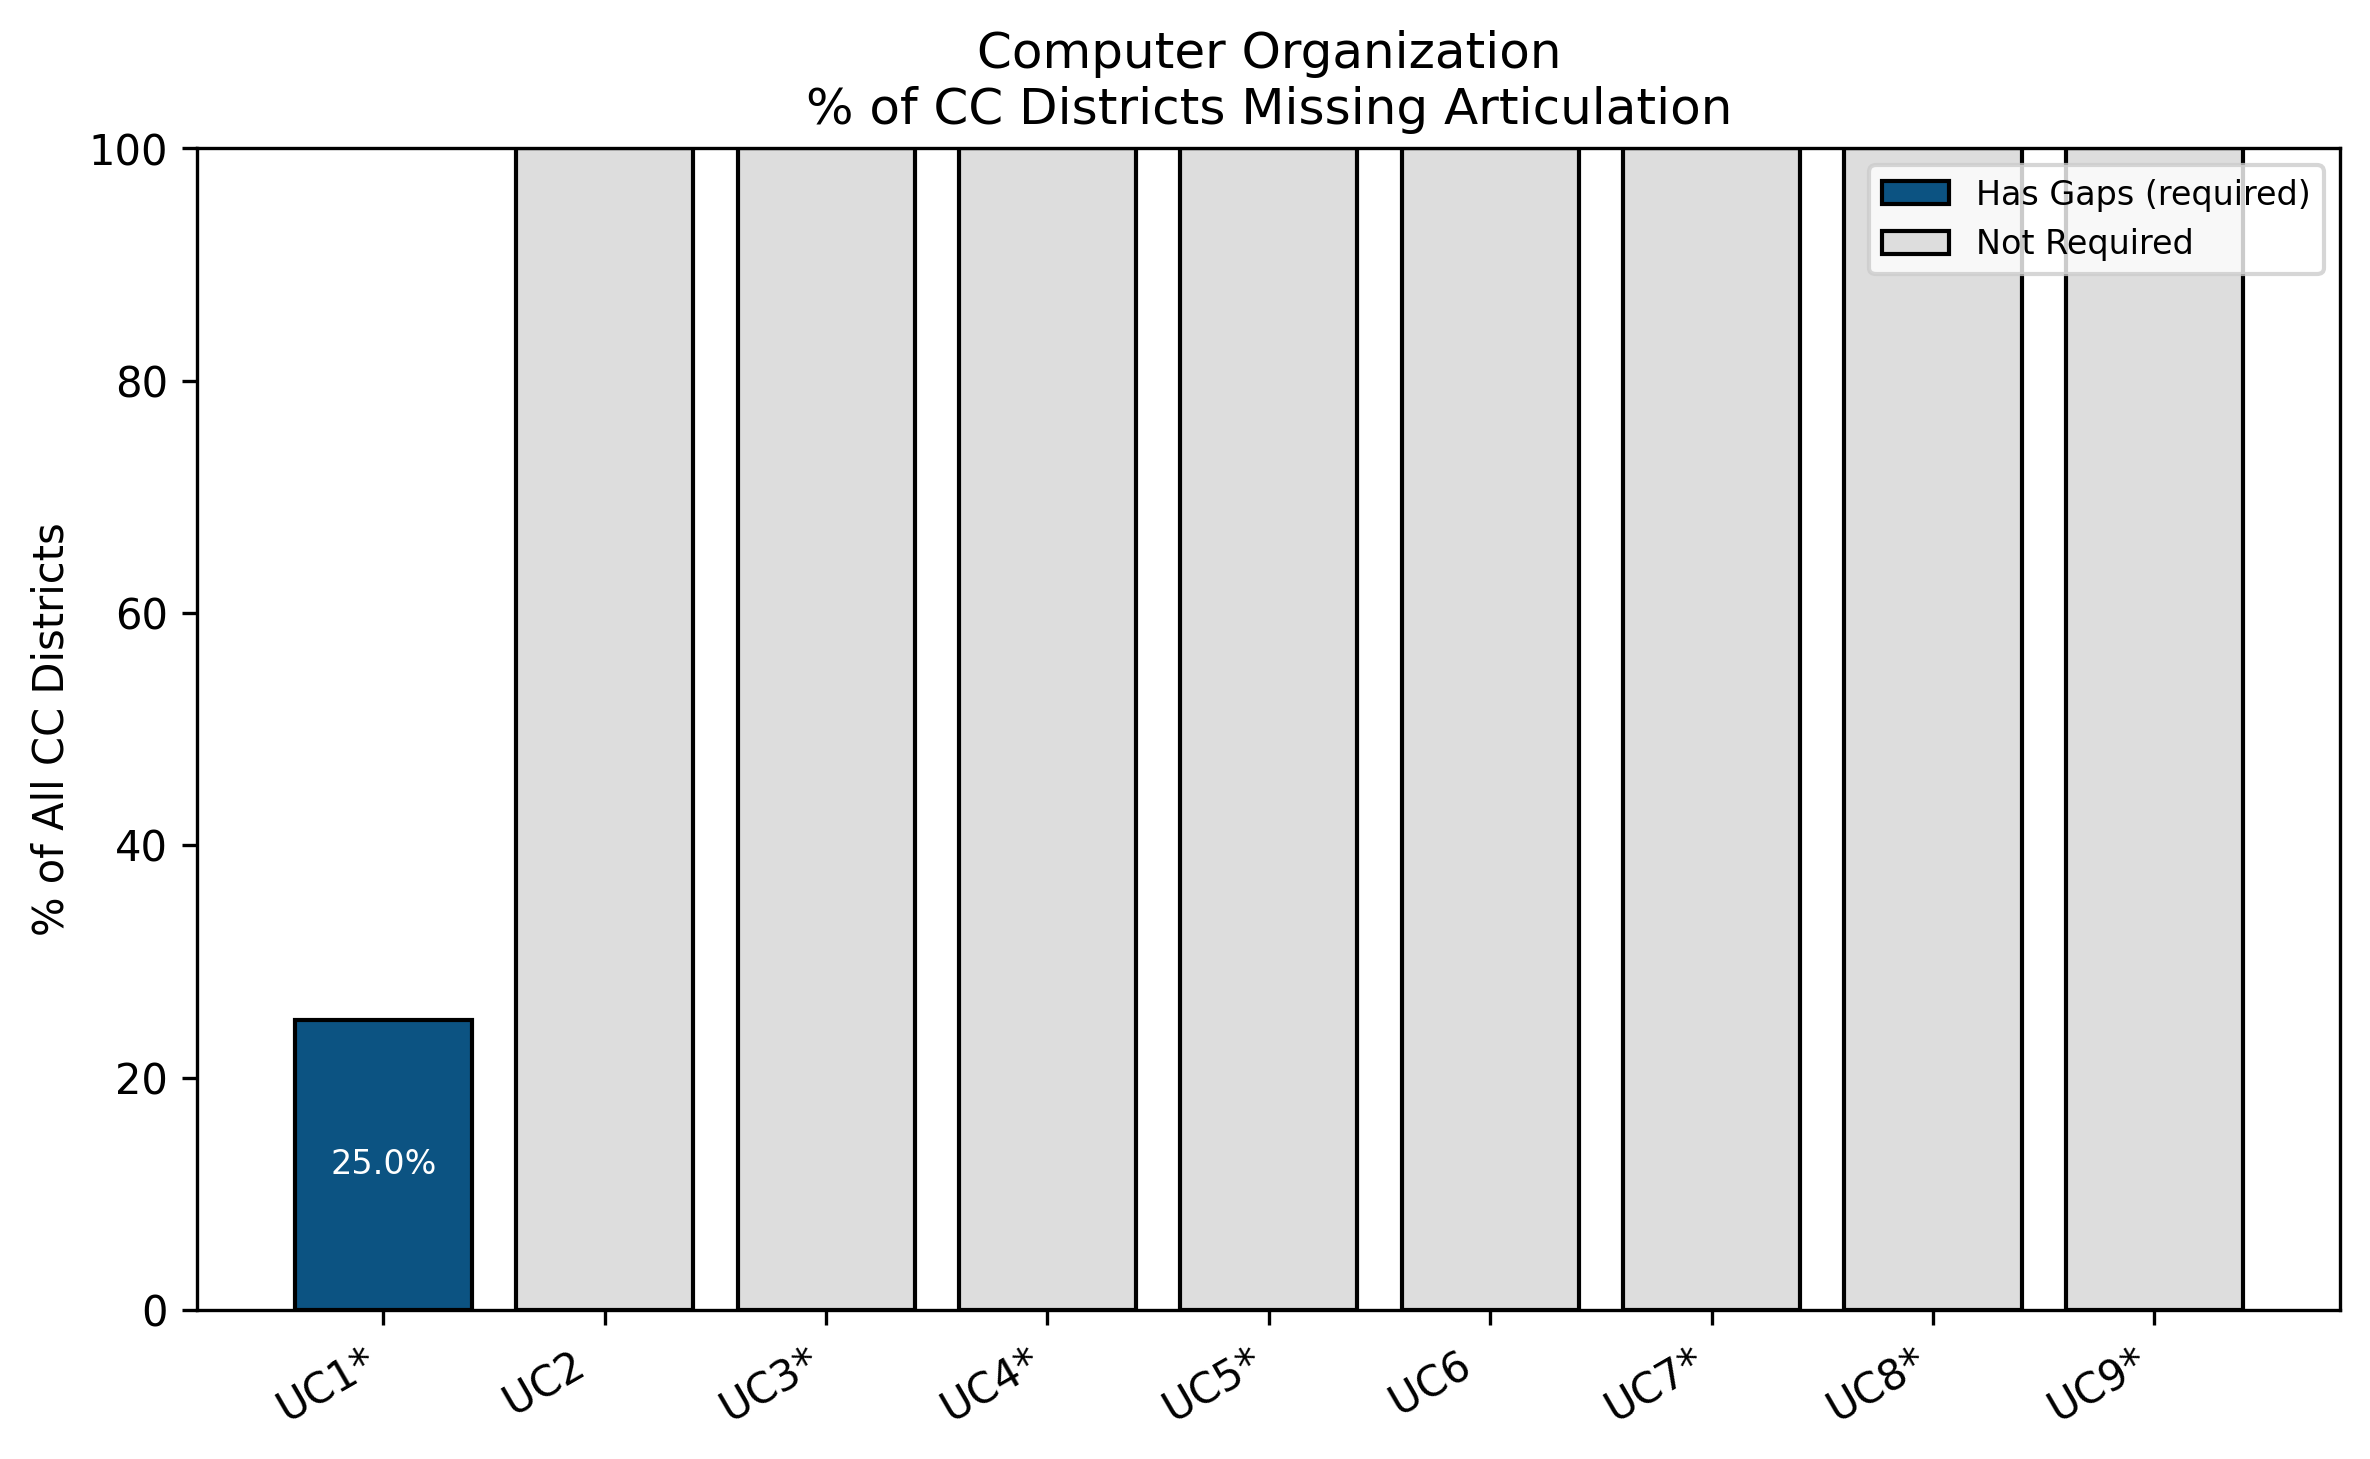
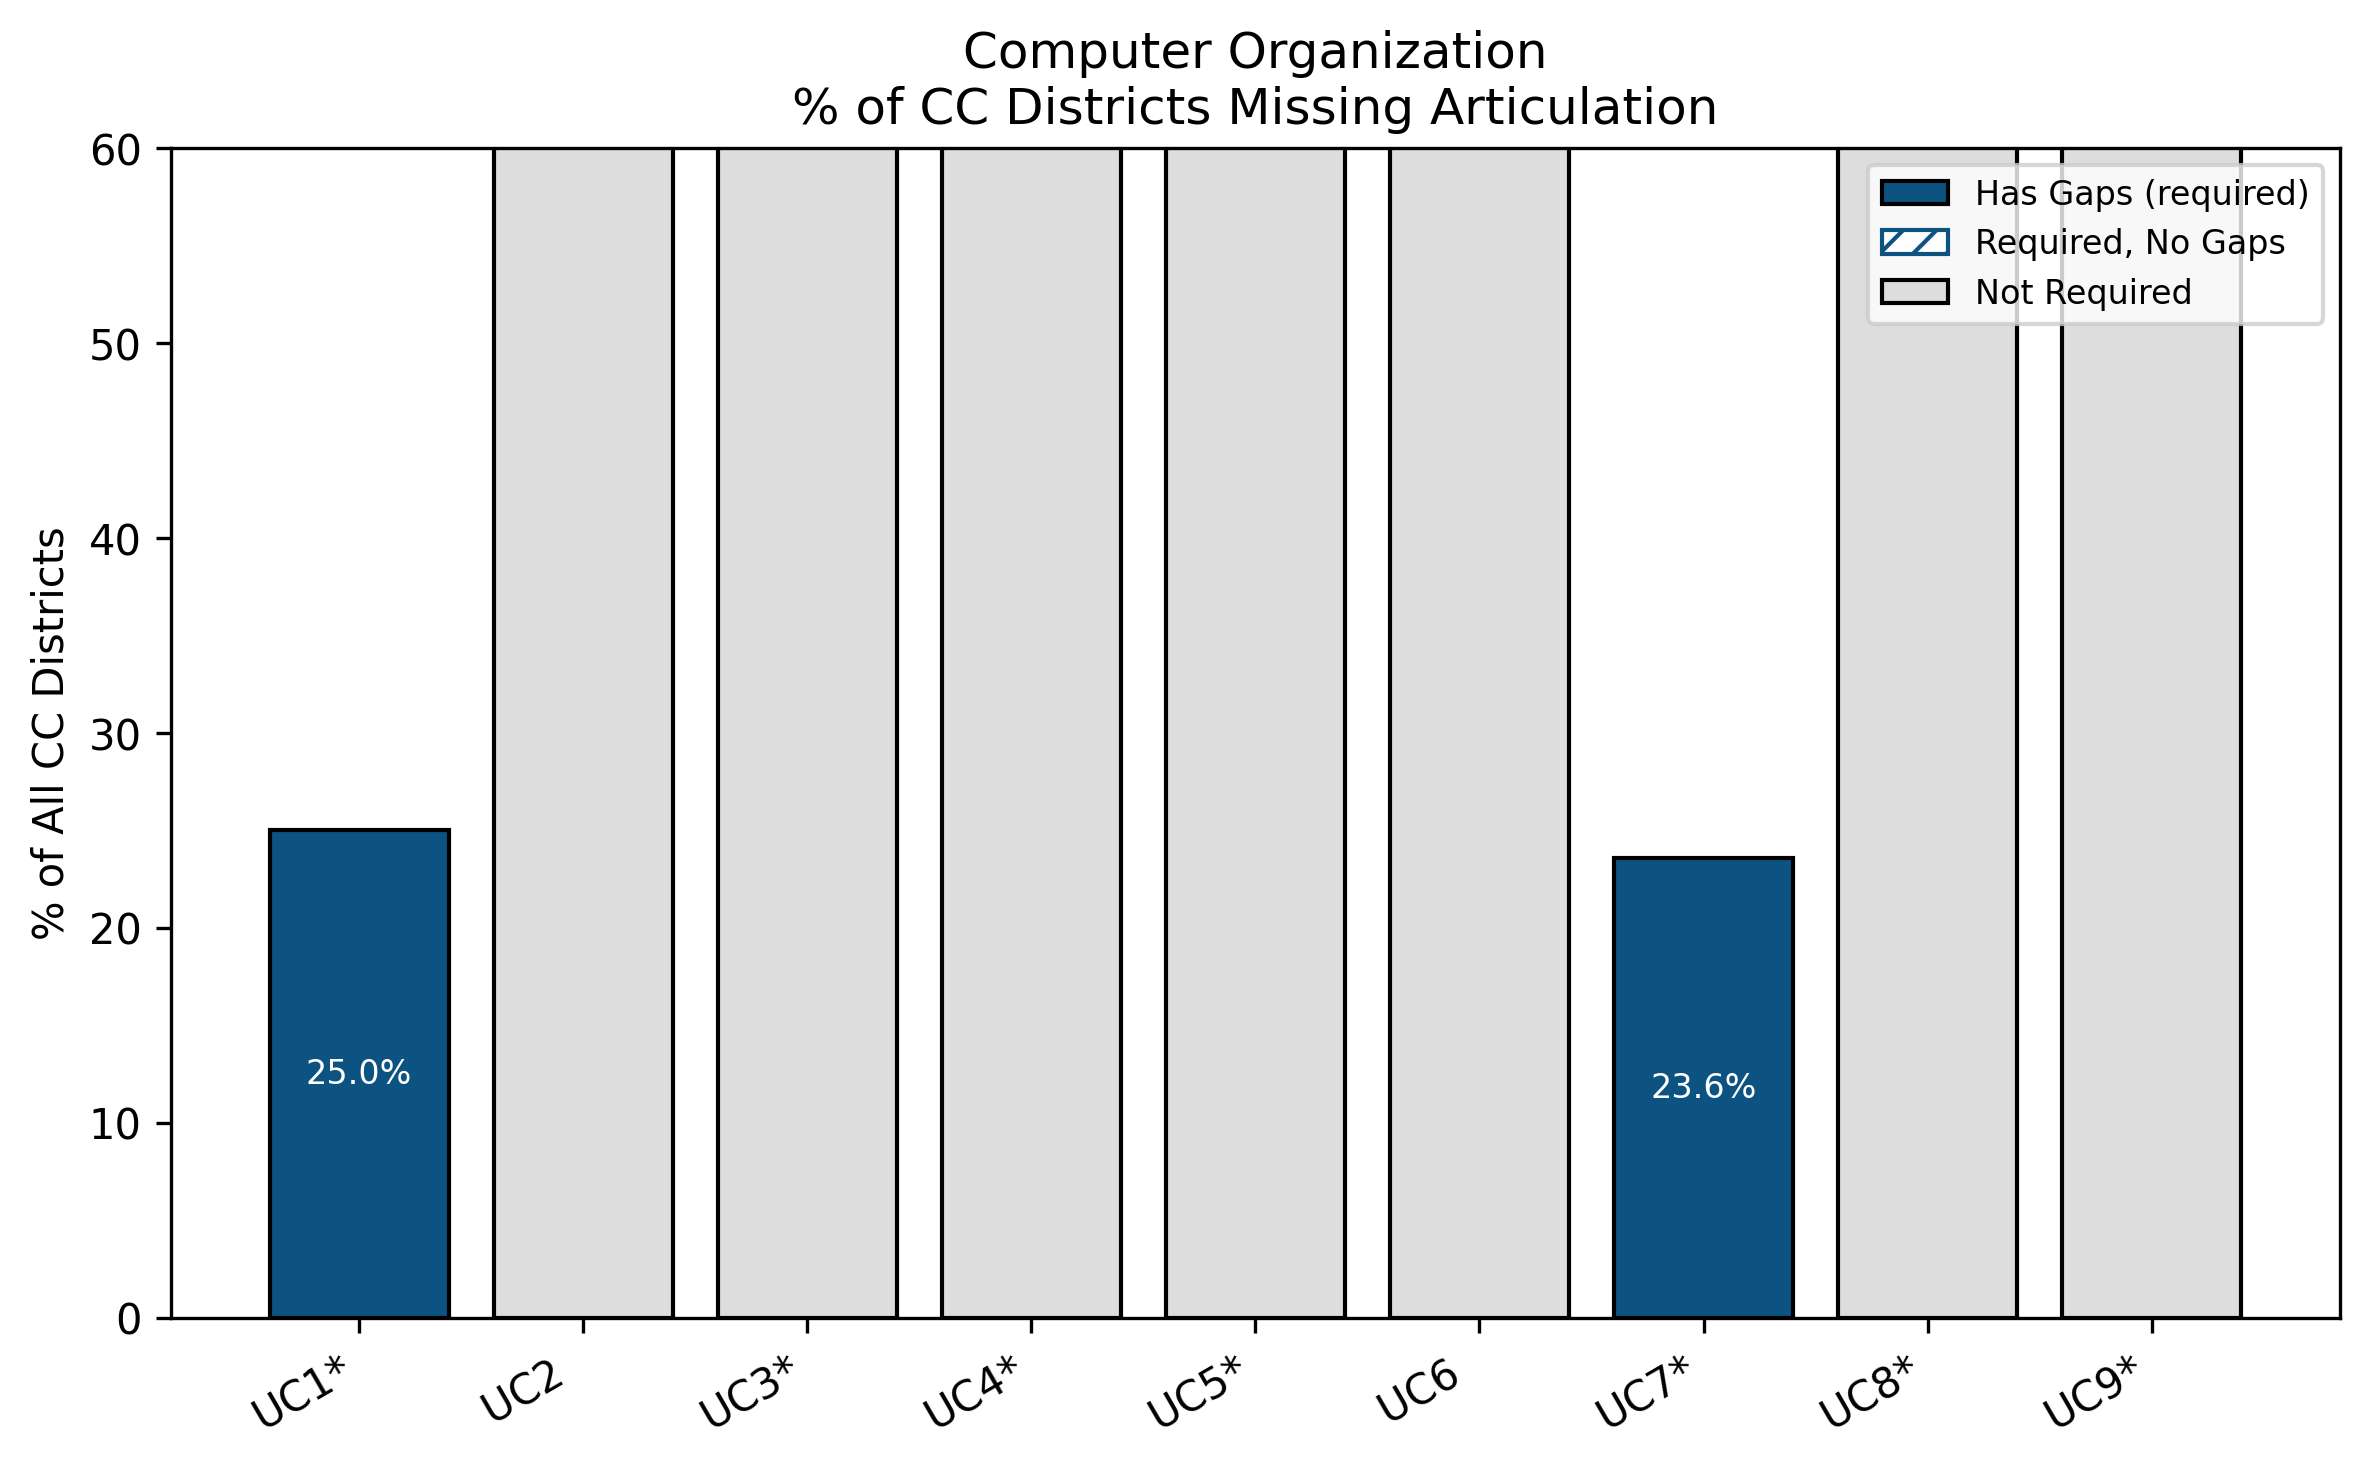
updated figures

diff --git a/question_2-3/district-level/course_analysis.py b/question_2-3/district-level/course_analysis.py
@@ -444,9 +444,9 @@ def create_all_course_graphs(data, output_dir):
             if label is not None:
                 height = rect.get_height()
                 if count > 0:
-                    label_y = height / 2 if height >= 8 else min(height + 2, 98)
-                    label_color = "white" if height >= 8 else "black"
-                    vertical_align = "center" if height >= 8 else "bottom"
+                    label_y = height + 1.5
+                    label_color = "black"
+                    vertical_align = "bottom"
                 else:
                     label_y = 50
                     label_color = "black"
@@ -456,14 +456,14 @@ def create_all_course_graphs(data, output_dir):
                     label_y,
                     label,
                     ha="center", va=vertical_align,
-                    fontsize=8,
+                    fontsize=13,
                     color=label_color
                 )
 
         ax.set_ylim(0, 60)
         ax.set_title(cat.replace('_',' ').title(), fontsize=20)
         ax.set_xticks(np.arange(len(uc_names)))
-        ax.set_xticklabels(uc_names, rotation=20, ha='right')
+        ax.set_xticklabels(uc_names, rotation=20, ha='right', fontsize=13)
         # only the leftmost column gets a ylabel
         if idx % 3 == 0:
             ax.set_ylabel("% of CC Districts", fontsize=18)
@@ -476,19 +476,18 @@ def create_all_course_graphs(data, output_dir):
     from matplotlib.patches import Patch
     legend_items = [
         Patch(facecolor='black', edgecolor='k', label='Colored = % missing'),
-        Patch(facecolor=REQUIRED_NO_GAPS_FACE, edgecolor='black', hatch='///', label='Hatched = required, no gaps'),
         Patch(facecolor=NOT_REQUIRED_FACE, edgecolor='k', label='Gray = not required')
     ]
     fig.legend(
         handles=legend_items,
         loc='lower center',
-        ncol=3,
+        ncol=2,
         frameon=False,
         fontsize=18,
-        bbox_to_anchor=(0.5, -0.08)
+        bbox_to_anchor=(0.5, -0.01)
     )
 
-    plt.tight_layout(rect=[0, 0.10, 1, 0.92])
+    plt.tight_layout(rect=[0, 0.04, 1, 0.92])
     out_path = os.path.join(output_dir, "all_courses_relative.png")
     fig.savefig(out_path, dpi=300, bbox_inches='tight')
     plt.close(fig)
